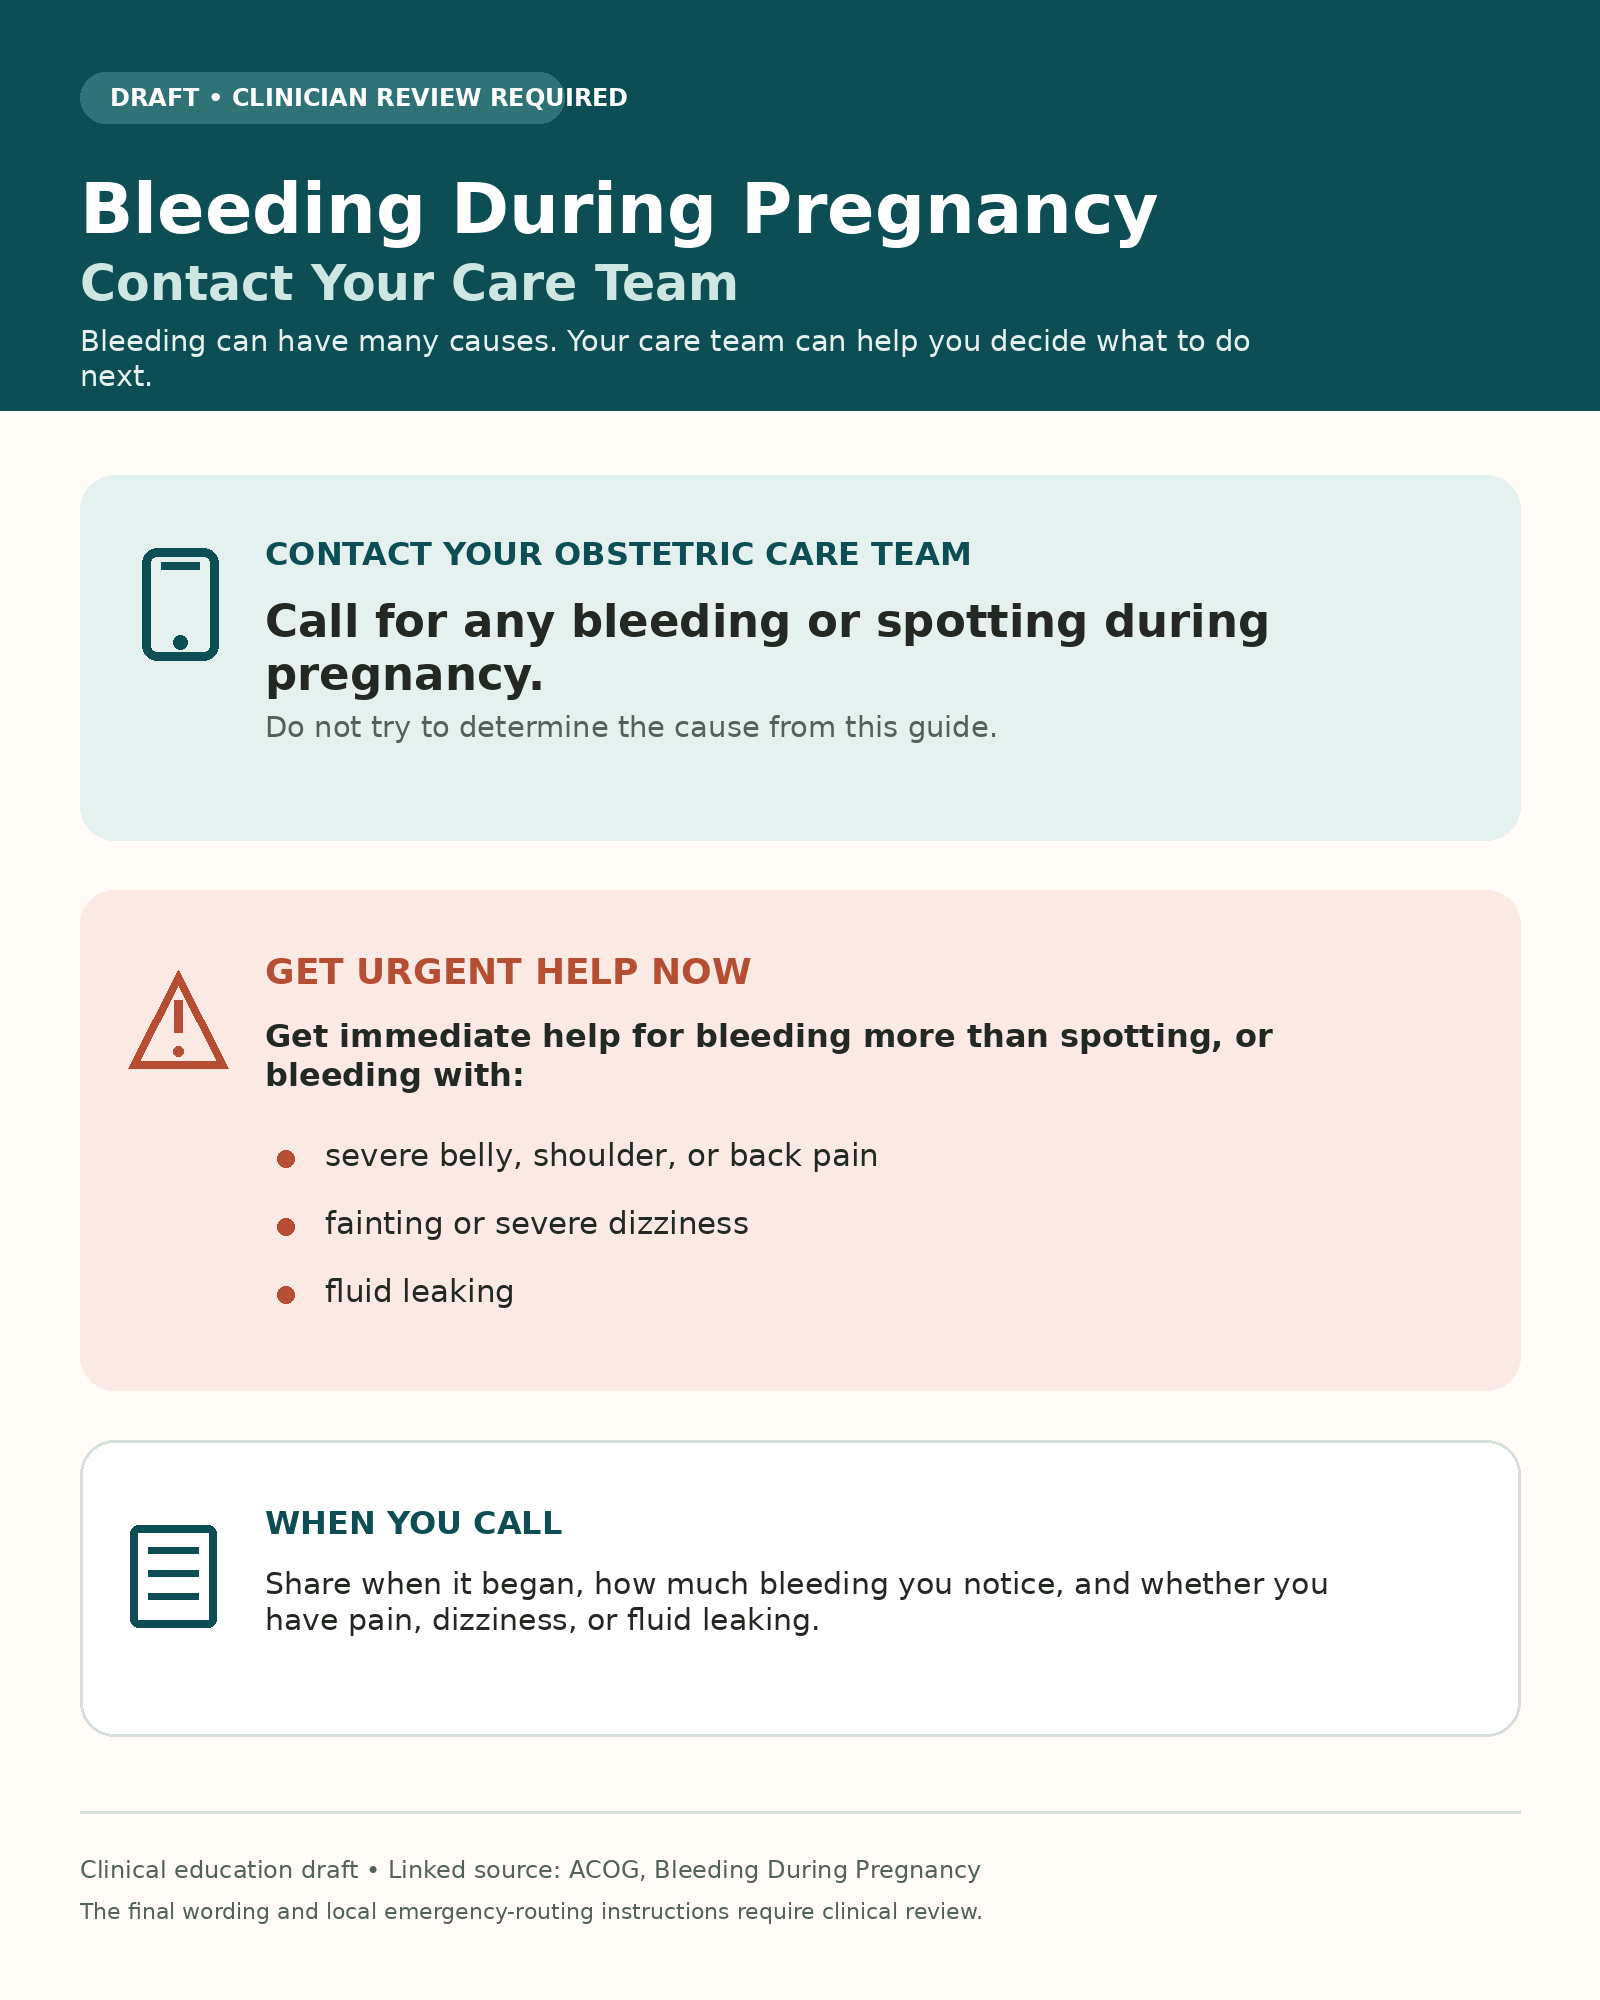
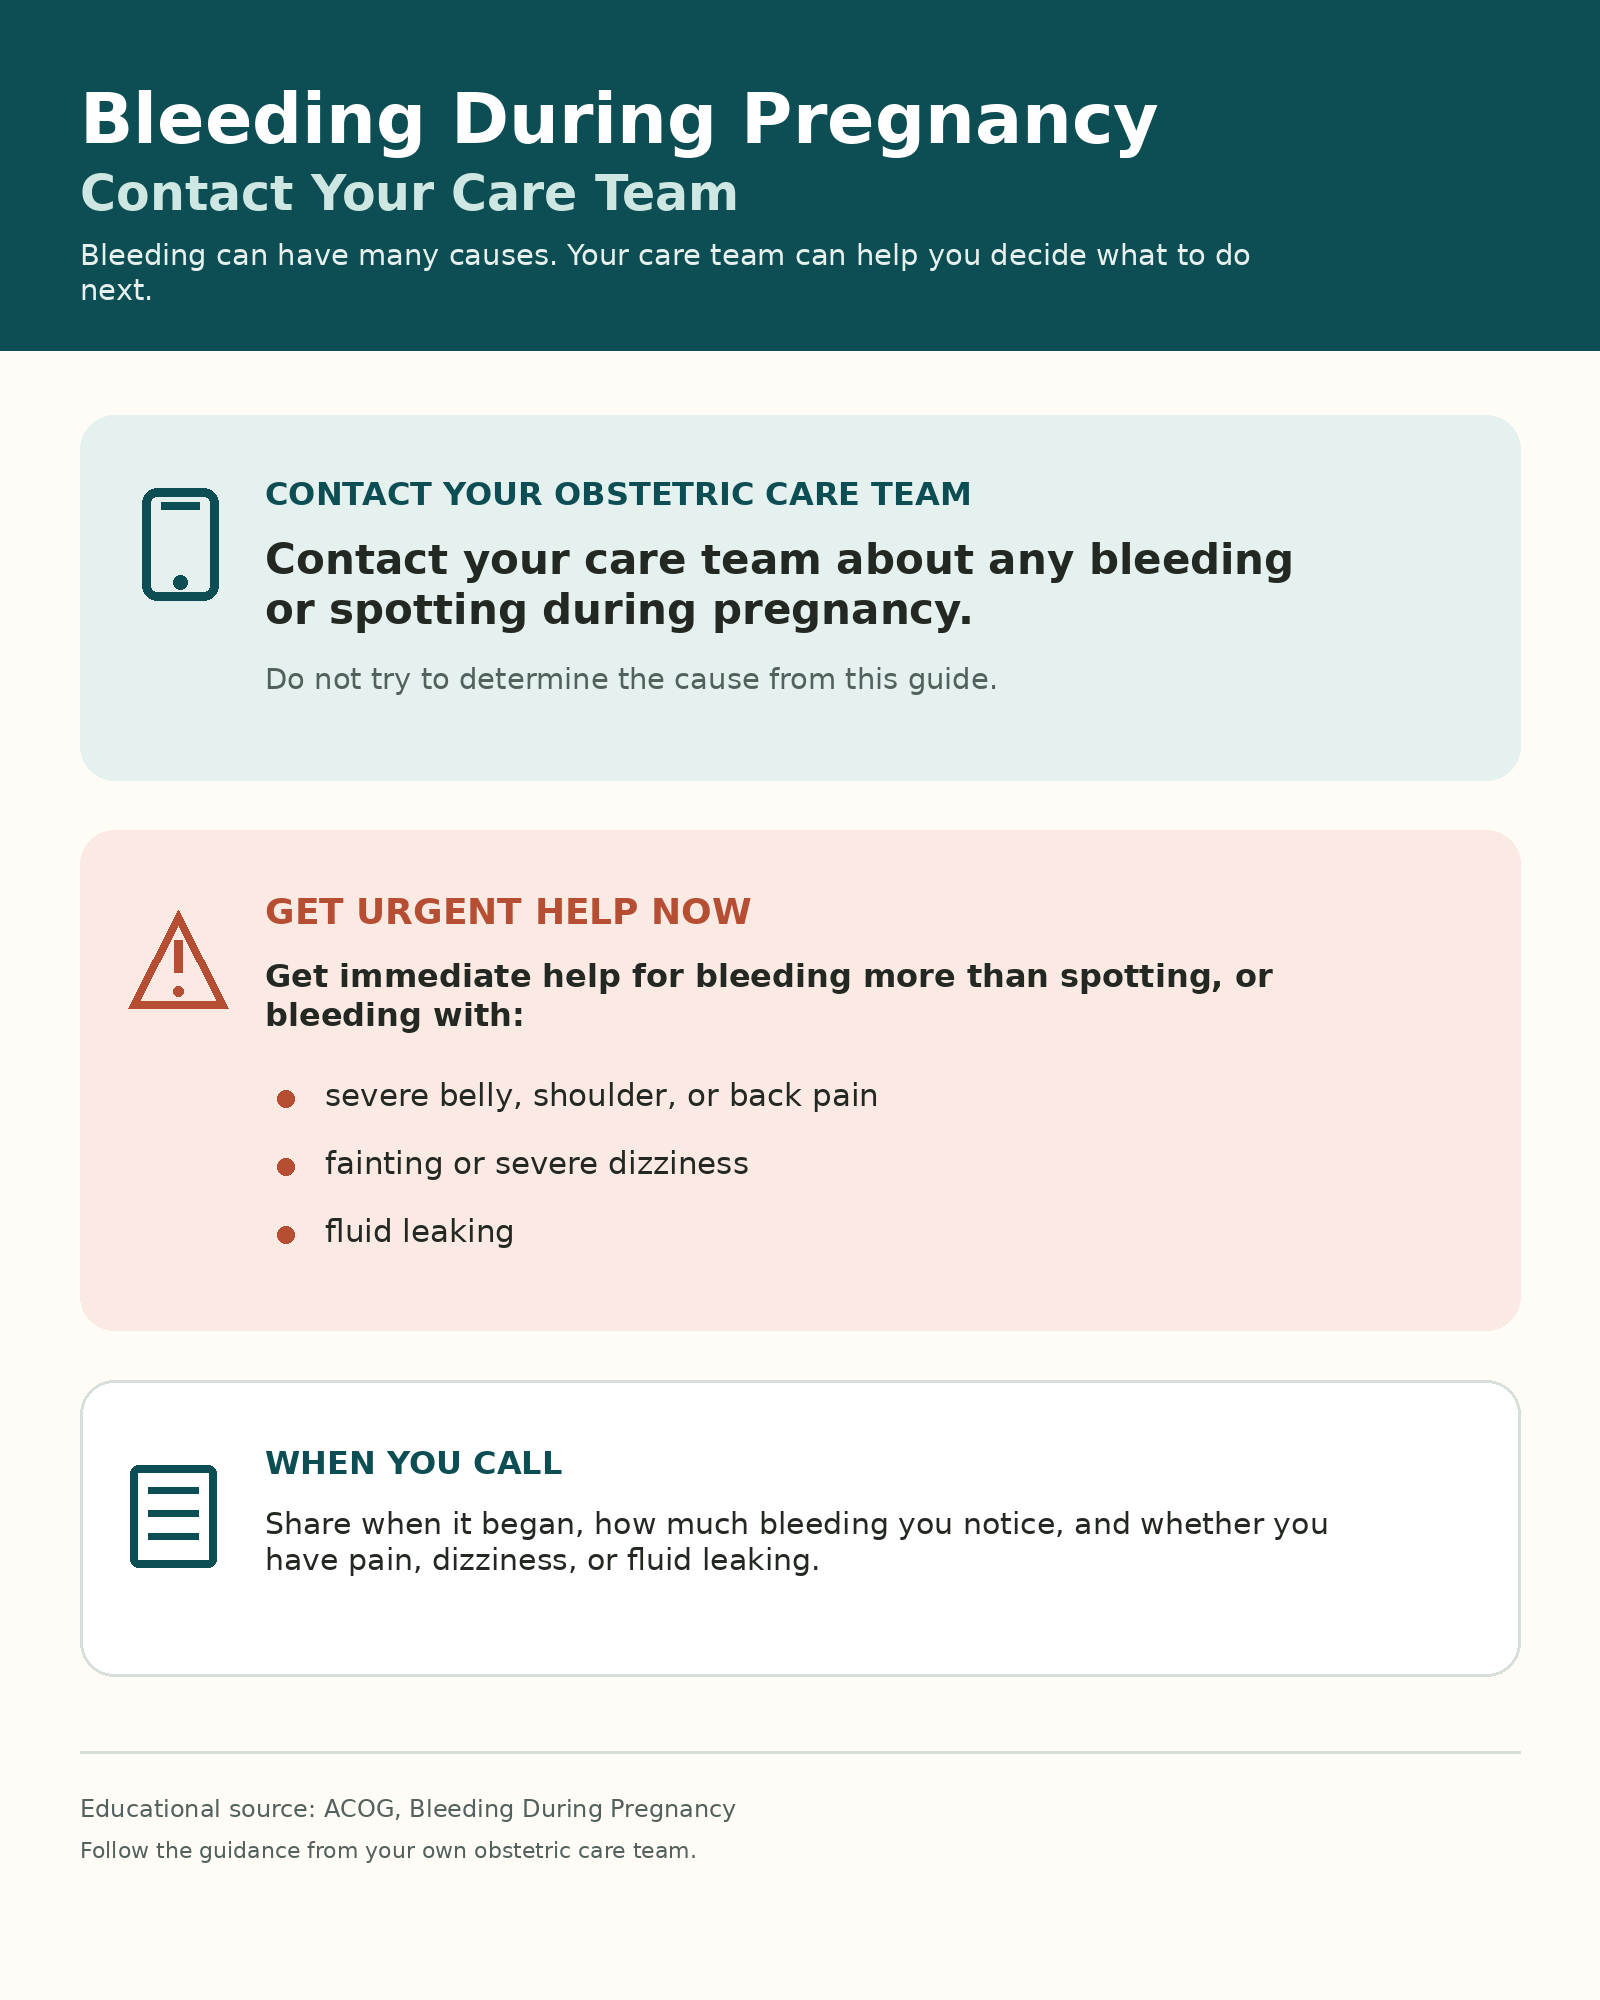
Finalize learner-facing bleeding figure

diff --git a/scripts/create-bleeding-during-pregnancy-figure.py b/scripts/create-bleeding-during-pregnancy-figure.py
@@ -4,8 +4,8 @@ import textwrap
 
 
 OUTPUT = Path(
-    "/home/user/workspace/BabyReady/assets/clinical-media/drafts/"
-    "bleeding-during-pregnancy-contact-care-draft.png"
+    "/home/user/workspace/BabyReady/assets/clinical-media/"
+    "bleeding-during-pregnancy-contact-care.png"
 )
 WIDTH, HEIGHT = 1600, 2000
 
@@ -80,14 +80,12 @@ image = Image.new("RGB", (WIDTH, HEIGHT), CREAM)
 draw = ImageDraw.Draw(image)
 
 # Header
-draw.rectangle((0, 0, WIDTH, 410), fill=TEAL)
-rounded(draw, (80, 72, 564, 123), 26, "#2F7377")
-draw.text((110, 83), "DRAFT • CLINICIAN REVIEW REQUIRED", font=font(24, True), fill=WHITE)
-draw.text((80, 168), "Bleeding During Pregnancy", font=font(70, True), fill=WHITE)
-draw.text((80, 254), "Contact Your Care Team", font=font(49, True), fill="#CFE7E2")
+draw.rectangle((0, 0, WIDTH, 350), fill=TEAL)
+draw.text((80, 78), "Bleeding During Pregnancy", font=font(70, True), fill=WHITE)
+draw.text((80, 164), "Contact Your Care Team", font=font(49, True), fill="#CFE7E2")
 draw_multiline(
     draw,
-    (80, 324),
+    (80, 238),
     "Bleeding can have many causes. Your care team can help you decide what to do next.",
     1190,
     font(29),
@@ -96,21 +94,21 @@ draw_multiline(
 )
 
 # Call panel
-rounded(draw, (80, 475, 1520, 840), 34, TEAL_LIGHT)
-icon_phone(draw, 130, 548, TEAL)
-draw.text((265, 535), "CONTACT YOUR OBSTETRIC CARE TEAM", font=font(32, True), fill=TEAL)
+rounded(draw, (80, 415, 1520, 780), 34, TEAL_LIGHT)
+icon_phone(draw, 130, 488, TEAL)
+draw.text((265, 475), "CONTACT YOUR OBSTETRIC CARE TEAM", font=font(32, True), fill=TEAL)
 draw_multiline(
     draw,
-    (265, 595),
-    "Call for any bleeding or spotting during pregnancy.",
+    (265, 535),
+    "Contact your care team about any bleeding or spotting during pregnancy.",
     1090,
-    font(45, True),
+    font(42, True),
     TEXT,
     line_gap=10,
 )
 draw_multiline(
     draw,
-    (265, 710),
+    (265, 662),
     "Do not try to determine the cause from this guide.",
     1090,
     font(29),
@@ -119,12 +117,12 @@ draw_multiline(
 )
 
 # Urgent panel
-rounded(draw, (80, 890, 1520, 1390), 34, RUST_LIGHT)
-icon_alert(draw, 128, 970, RUST)
-draw.text((265, 950), "GET URGENT HELP NOW", font=font(36, True), fill=RUST)
+rounded(draw, (80, 830, 1520, 1330), 34, RUST_LIGHT)
+icon_alert(draw, 128, 910, RUST)
+draw.text((265, 890), "GET URGENT HELP NOW", font=font(36, True), fill=RUST)
 draw_multiline(
     draw,
-    (265, 1017),
+    (265, 957),
     "Get immediate help for bleeding more than spotting, or bleeding with:",
     1080,
     font(32, True),
@@ -136,19 +134,19 @@ urgent_items = [
     "fainting or severe dizziness",
     "fluid leaking",
 ]
-bullet_y = 1137
+bullet_y = 1077
 for item in urgent_items:
     draw.ellipse((277, bullet_y + 13, 294, bullet_y + 30), fill=RUST)
     draw.text((325, bullet_y), item, font=font(31), fill=TEXT)
     bullet_y += 68
 
 # Call preparation
-rounded(draw, (80, 1440, 1520, 1736), 34, WHITE, outline=LINE, width=3)
-icon_note(draw, 130, 1525, TEAL)
-draw.text((265, 1504), "WHEN YOU CALL", font=font(32, True), fill=TEAL)
+rounded(draw, (80, 1380, 1520, 1676), 34, WHITE, outline=LINE, width=3)
+icon_note(draw, 130, 1465, TEAL)
+draw.text((265, 1444), "WHEN YOU CALL", font=font(32, True), fill=TEAL)
 draw_multiline(
     draw,
-    (265, 1566),
+    (265, 1506),
     "Share when it began, how much bleeding you notice, and whether you have pain, dizziness, or fluid leaking.",
     1080,
     font(30),
@@ -157,9 +155,9 @@ draw_multiline(
 )
 
 # Footer
-draw.line((80, 1812, 1520, 1812), fill=LINE, width=3)
-draw.text((80, 1855), "Clinical education draft • Linked source: ACOG, Bleeding During Pregnancy", font=font(24), fill=MUTED)
-draw.text((80, 1898), "The final wording and local emergency-routing instructions require clinical review.", font=font(22), fill=MUTED)
+draw.line((80, 1752, 1520, 1752), fill=LINE, width=3)
+draw.text((80, 1794), "Educational source: ACOG, Bleeding During Pregnancy", font=font(24), fill=MUTED)
+draw.text((80, 1837), "Follow the guidance from your own obstetric care team.", font=font(22), fill=MUTED)
 
 OUTPUT.parent.mkdir(parents=True, exist_ok=True)
 image.save(OUTPUT, quality=95)
